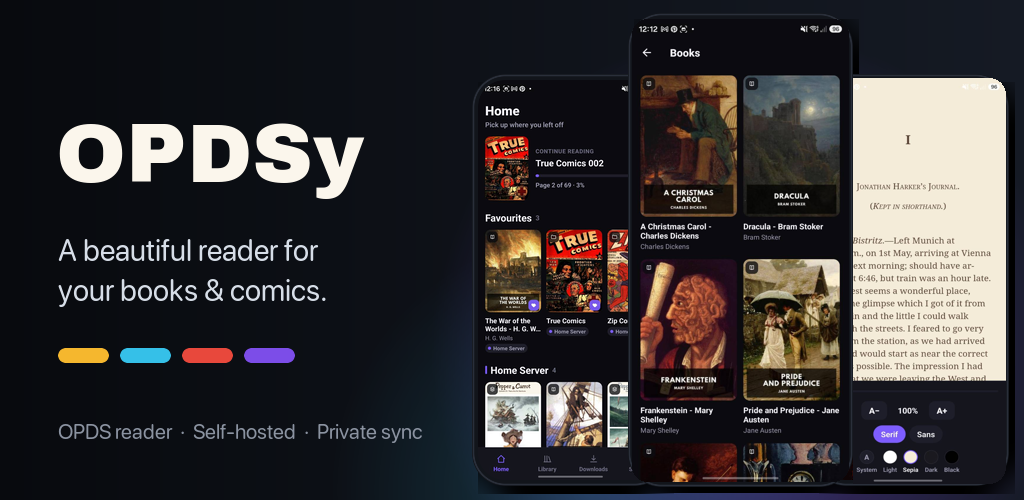
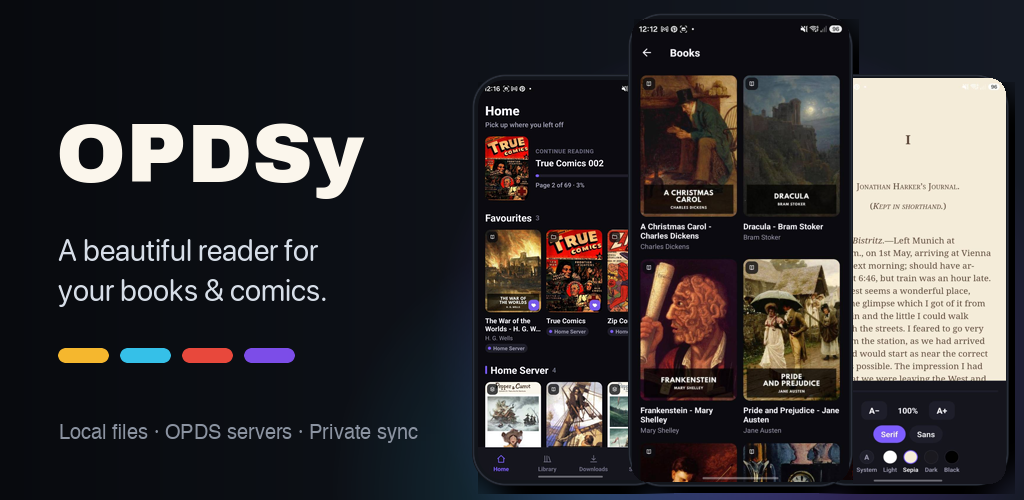
feat(opdsy): position as local and OPDS reader
OPDSy now reads on-device files as well as OPDS servers, but the listing
implied it was OPDS-only. Rewrite the tagline, summary, description,
highlights, features and privacy copy to lead with local libraries, add
Calibre-Web and BookOrbit, and document the e-ink friendly mode.

Also rewrite the feature graphic keyword strip from
"OPDS reader - Self-hosted - Private sync" to
"Local files - OPDS servers - Private sync", and regenerate the OG image.

Changed region(s): [[0.0625, 0.84, 0.4062, 0.9]]

diff --git a/src/data/apps.ts b/src/data/apps.ts
@@ -200,11 +200,11 @@ export const apps: App[] = [
   {
     slug: 'opdsy',
     name: 'OPDSy',
-    tagline: 'Your self-hosted library, unified.',
+    tagline: 'Every book you own, in one reader.',
     summary:
-      'A modern, cross-platform reader that streams comics and books from multiple self-hosted OPDS servers in one unified library.',
+      'A fast, private comic, manga and ebook reader for the files on your device and your self-hosted OPDS servers — together in one unified library.',
     description:
-      'OPDSy is a fast, private comic and ebook reader for the books, comics and manga you already host yourself.\n\nConnect it to your OPDS servers — Komga, Kavita, Ubooquity and any OPDS 1.2 or 2.0 source — and browse them all together in one unified library. Add on-device folders as a local library too, or open a file from any app to read it instantly.\n\nRead EPUB, MOBI, AZW3, FB2 and PDF books, CBZ/CBR comics, and Markdown with Mermaid diagrams; listen to any book with built-in text-to-speech; and download titles for fully offline reading — with no account, no ads and no tracking of any kind.',
+      'OPDSy is a fast, private comic, manga and ebook reader that works with your own on-device files, your self-hosted OPDS servers, or both at once.\n\nAdd any folder on your device as a local library and read straight away — no server required. Or open a file from your file manager or any share sheet and start reading instantly. When you do self-host, connect your OPDS servers — Komga, Kavita, Ubooquity, Calibre-Web, BookOrbit and any OPDS 1.2 or 2.0 source — and browse everything together alongside your local files.\n\nRead EPUB, MOBI, AZW3, FB2 and PDF books, CBZ/CBR comics and manga, and Markdown with Mermaid.js diagrams; highlight passages and bookmark pages; listen to any book with built-in text-to-speech; and download titles for fully offline reading — with no account, no ads and no tracking of any kind.',
     category: 'Books & Reference',
     icon: '/apps/opdsy.png',
     featureGraphic: '/apps/opdsy-feature.png',
@@ -273,36 +273,41 @@ export const apps: App[] = [
           'No account, no ads, no analytics and no tracking of any kind. Your reading is nobody’s business but yours.',
       },
       {
-        title: 'One library, many servers',
+        title: 'Your own files, no server needed',
         description:
-          'Komga, Kavita, Ubooquity and any OPDS 1.2 / 2.0 source, merged into a single unified home.',
+          'Add any folder on your device as a local library, or open a file straight from your file manager or share sheet. OPDS is optional.',
+      },
+      {
+        title: 'One library, local and self-hosted',
+        description:
+          'On-device folders plus Komga, Kavita, Ubooquity, Calibre-Web, BookOrbit and any OPDS 1.2 / 2.0 source, merged into a single unified home.',
       },
       {
         title: 'Comics, books and audio',
         description:
-          'Stream comics and manga, read ebooks in multiple formats, or have any book read aloud with text-to-speech.',
+          'Read comics and manga, ebooks in EPUB, MOBI, AZW3 and FB2, PDFs and Markdown — or have any book read aloud with text-to-speech.',
       },
       {
         title: 'The successor to Kuboo',
         description:
           'A resilient, multi-source reader rebuilt from the ground up for speed, reliability and privacy — and actively maintained.',
       },
-      {
-        title: 'Your own files, too',
-        description:
-          'Add on-device folders as a local library, or open any file straight from your file manager or share sheet — servers optional.',
-      },
     ],
     features: [
       {
-        title: 'One library, many servers',
+        title: 'Your own files, no server needed',
         description:
-          'Add as many OPDS sources as you like — Komga, Kavita, Ubooquity or any OPDS 1.2 / 2.0 server — merged into a single home, each tagged with a per-source colour badge.',
+          'Add any on-device folder as a local library — each with its own name and colour — and browse it alongside everything else. Or send a file to OPDSy from your file manager or any share sheet to open it straight in the reader.',
+      },
+      {
+        title: 'One library, many sources',
+        description:
+          'Mix local folders with as many OPDS servers as you like — Komga, Kavita, Ubooquity, Calibre-Web, BookOrbit or any OPDS 1.2 / 2.0 source — merged into a single home, each tagged with a per-source colour badge.',
       },
       {
         title: 'Books and comics, any format',
         description:
-          'Reads EPUB, MOBI, AZW3, FB2 and PDF ebooks, CBZ / CBR comics and manga, and Markdown documents (with Mermaid.js diagrams) — from your servers or your own device.',
+          'Reads EPUB, MOBI, AZW3, FB2 and PDF ebooks, CBZ / CBR comics and manga, and Markdown documents (with Mermaid.js diagrams) — from your device or your servers.',
       },
       {
         title: 'A comic & manga reader',
@@ -312,12 +317,7 @@ export const apps: App[] = [
       {
         title: 'Page streaming',
         description:
-          'Comics stream page-by-page over OPDS-PSE with smart prefetching, so the next page is ready before you swipe — no full archive download needed to start reading.',
-      },
-      {
-        title: 'Your own files, no server needed',
-        description:
-          'Add any on-device folder as a local library — each with its own name and colour — and browse it alongside your OPDS sources. Or send a file to OPDSy from your file manager or any share sheet to open it straight in the reader.',
+          'Comics on a server stream page-by-page over OPDS-PSE with smart prefetching, so the next page is ready before you swipe — no full archive download needed to start reading.',
       },
       {
         title: 'Built-in PDF & Markdown readers',
@@ -332,22 +332,27 @@ export const apps: App[] = [
       {
         title: 'A proper reading experience',
         description:
-          'Continue Reading remembers your place across every source. Mark favourites for one-tap access, track progress, and tune the ebook reader with adjustable fonts, line spacing and light, sepia or OLED-friendly dark themes.',
+          'Continue Reading remembers your place across every source, local or remote. Mark books and folders as favourites for one-tap access, track progress, and tune the ebook reader with adjustable fonts, line spacing and light, sepia or OLED-friendly dark themes.',
       },
       {
         title: 'Highlights & bookmarks',
         description:
-          'Select any passage to highlight it in a choice of colours, attach a note, or copy and share the text — and bookmark pages to jump back to the moments that matter. Your highlights, notes and bookmarks stay on your device.',
+          'Select any passage to highlight it in one of five colours, attach a note, or copy and share the text — and bookmark a place in any book, PDF or comic. Everything lands in one list, and travels with you if you enable sync.',
+      },
+      {
+        title: 'E-ink friendly',
+        description:
+          'Independent toggles for a high-contrast black-on-white theme and for switching animations off, to avoid ghosting on slow-refresh screens such as Onyx Boox.',
       },
       {
         title: 'Read offline, anywhere',
         description:
-          'Download comics and books straight to your device for reading with no connection at all. Interrupted downloads resume automatically and stay ready when you are.',
+          'Files in a local library are already offline, and anything on a server can be downloaded straight to your device. Interrupted downloads resume automatically and stay ready when you are.',
       },
       {
         title: 'Resilient by design',
         description:
-          'Every source loads independently, so one offline, slow or broken server never crashes your library — and favourites and recent items stay visible even when a server is temporarily down.',
+          'Every source loads independently, so one offline, slow or broken server never crashes your library — and favourites, local files and recent items stay visible even when a server is temporarily down.',
       },
       {
         title: 'Secure credentials',
@@ -357,12 +362,12 @@ export const apps: App[] = [
       {
         title: 'Private cross-device sync',
         description:
-          'Optionally sync your library, favourites and reading progress through your own Google Drive — end-to-end encrypted with a passphrase-derived key, readable only on your devices.',
+          'Optionally sync your library, favourites, reading progress, highlights and bookmarks through your own Google Drive — end-to-end encrypted with a passphrase-derived key, readable only on your devices.',
       },
     ],
     privacy: {
       summary:
-        'OPDSy connects only to the self-hosted servers you configure. It has no Binary Meadow account and no analytics, and optional cross-device sync is end-to-end encrypted inside your own Google Drive — so we never see your library, reading activity or credentials.',
+        'OPDSy reads files on your own device and connects only to the self-hosted servers you configure. It has no Binary Meadow account and no analytics, and optional cross-device sync is end-to-end encrypted inside your own Google Drive — so we never see your library, reading activity or credentials.',
       collectsPersonalData: false,
       dataHandling: [
         {
@@ -373,7 +378,7 @@ export const apps: App[] = [
         {
           title: 'Your library content',
           description:
-            'Books and comics are streamed directly between your device and your own servers. Binary Meadow has no access to your library, reading activity, or the content you view.',
+            'Files you add from your device stay on your device and are never uploaded. Books and comics on a server are streamed directly between your device and your own server. Binary Meadow has no access to your library, reading activity, or the content you view.',
         },
         {
           title: 'Cross-device sync (optional)',
@@ -397,7 +402,7 @@ export const apps: App[] = [
         'Google Play — distributes the app and processes installs under its own privacy policy.',
       ],
       childrenNote:
-        'OPDSy is suitable for all ages and can be used in a family or children’s setting. As it displays only the content on the servers you configure, the person setting up those servers controls what is available — so we recommend that a parent or guardian configures appropriate sources for younger users.',
+        'OPDSy is suitable for all ages and can be used in a family or children’s setting. As it displays only the files and servers you configure, the person setting those up controls what is available — so we recommend that a parent or guardian chooses appropriate folders and sources for younger users.',
     },
   },
   {

diff --git a/scripts/update-opdsy-feature-keywords.py b/scripts/update-opdsy-feature-keywords.py
@@ -1,0 +1,51 @@
+#!/usr/bin/env python3
+"""Replace the keyword strip at the bottom of the OPDSy feature graphic.
+
+The original line read "OPDS reader · Self-hosted · Private sync", which implied
+OPDSy only reads OPDS servers. OPDSy is also a local reader, so the strip is
+rewritten to lead with on-device files.
+
+The band behind the text is rebuilt by interpolating vertically between the two
+clean rows either side of it, which reproduces the background gradient exactly.
+"""
+from PIL import Image, ImageDraw, ImageFont
+
+TARGETS = [
+    "public/apps/opdsy-feature.png",
+    "/Users/Faesel.Saeed/Code/faesel/opdsy/store/feature_graphic.png",
+]
+
+FONT = "/System/Library/Fonts/Helvetica.ttc"
+SIZE = 20
+COLOUR = (139, 147, 161)
+TEXT = "Local files · OPDS servers · Private sync"
+
+X, Y = 59, 423
+TOP, BOTTOM = 419, 448  # clean anchor rows either side of the old text
+CLEAR_X = (0, 460)
+
+
+def rebuild_band(im):
+    px = im.load()
+    x0, x1 = CLEAR_X
+    span = BOTTOM - TOP
+    for x in range(x0, x1):
+        top = px[x, TOP]
+        bottom = px[x, BOTTOM]
+        for y in range(TOP + 1, BOTTOM):
+            t = (y - TOP) / span
+            px[x, y] = tuple(round(a + (b - a) * t) for a, b in zip(top, bottom))
+
+
+def main():
+    font = ImageFont.truetype(FONT, SIZE)
+    for path in TARGETS:
+        im = Image.open(path).convert("RGB")
+        rebuild_band(im)
+        ImageDraw.Draw(im).text((X, Y), TEXT, font=font, fill=COLOUR)
+        im.save(path)
+        print(f"updated {path}")
+
+
+if __name__ == "__main__":
+    main()
